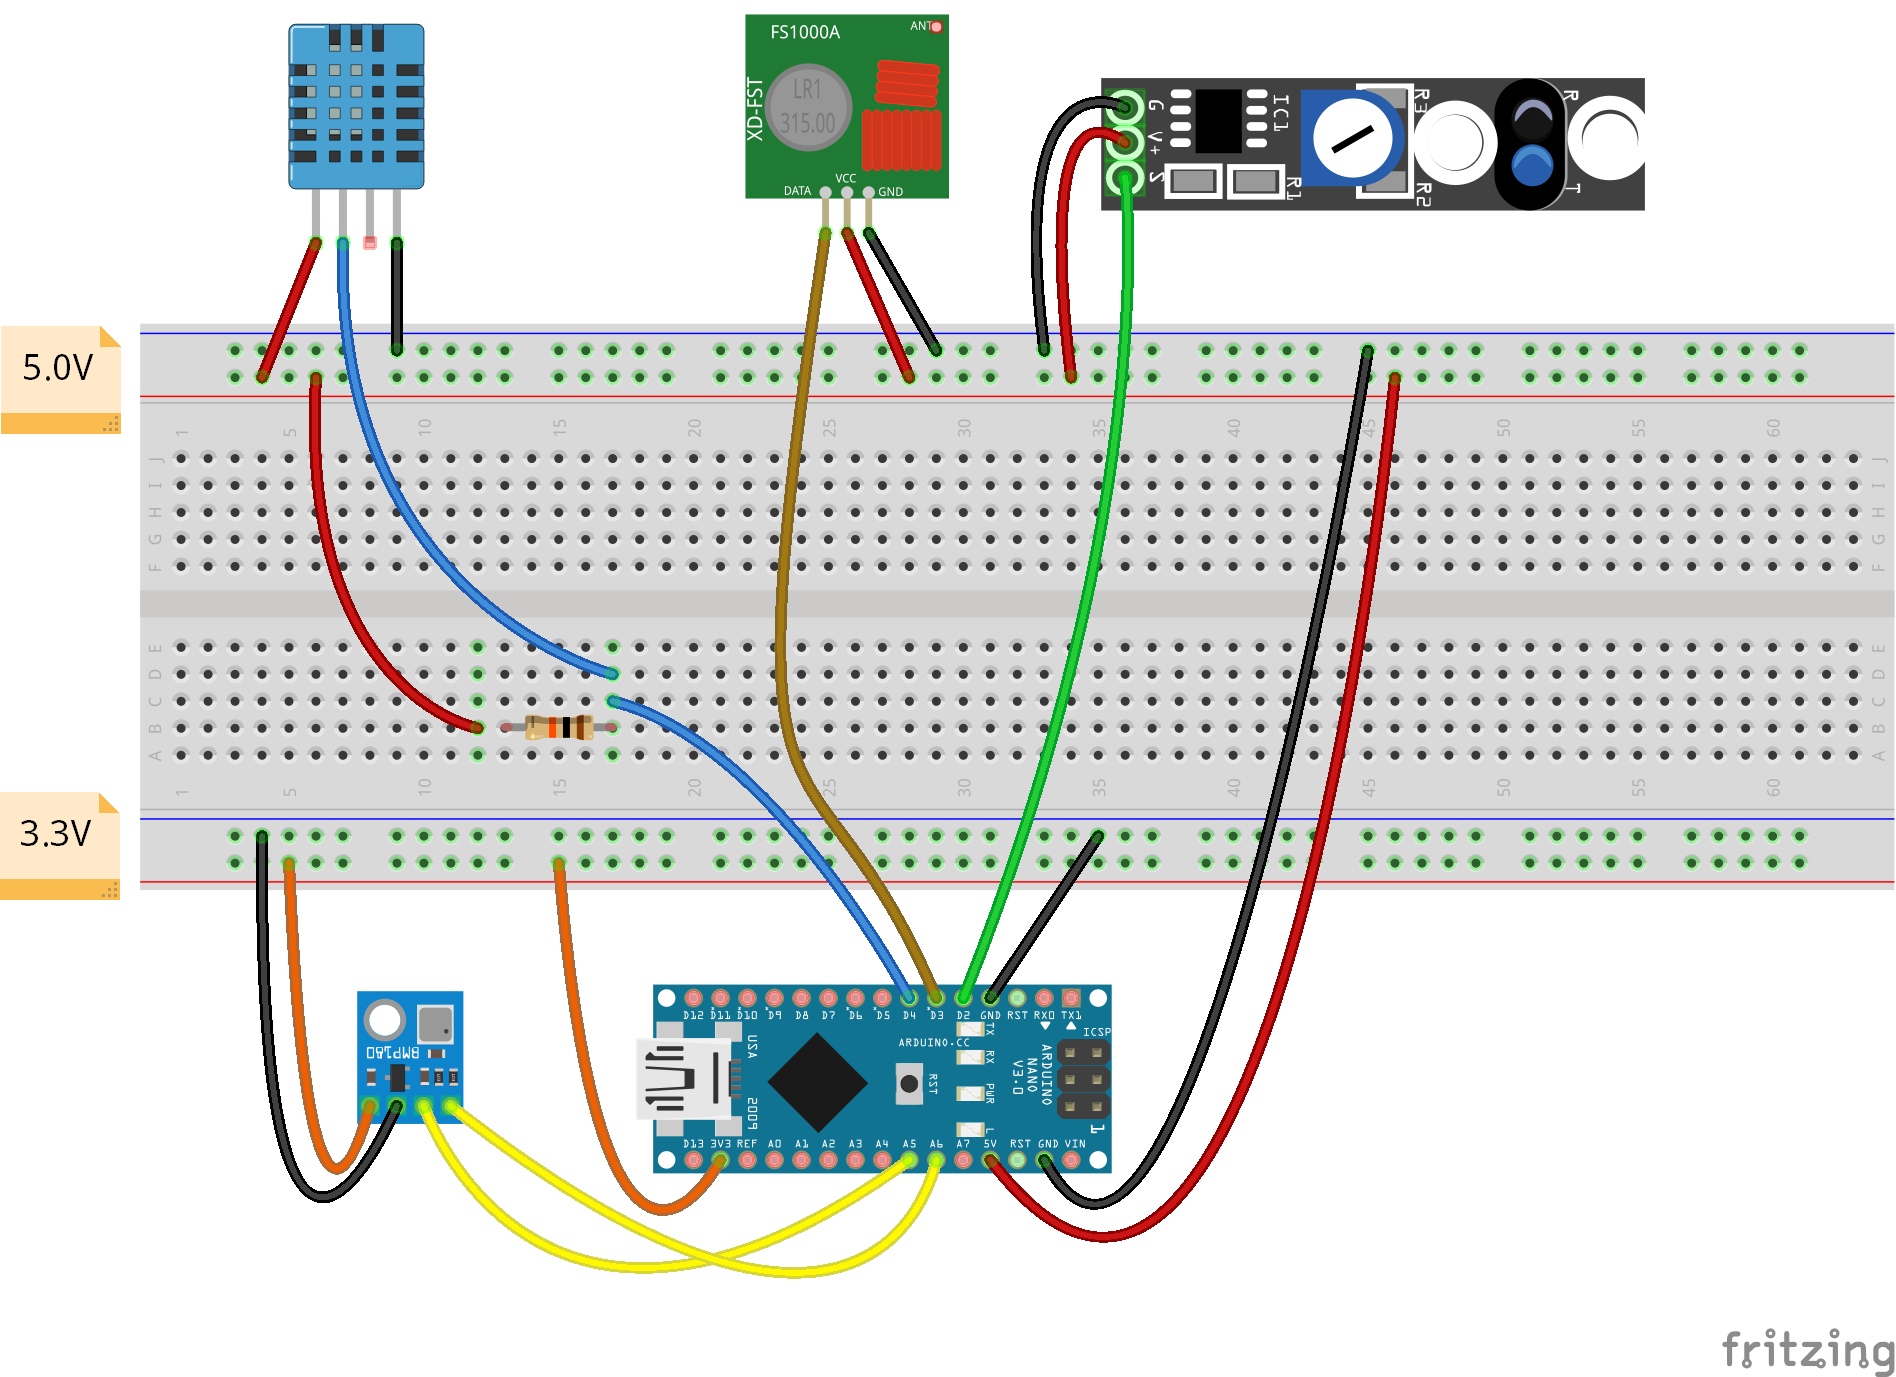
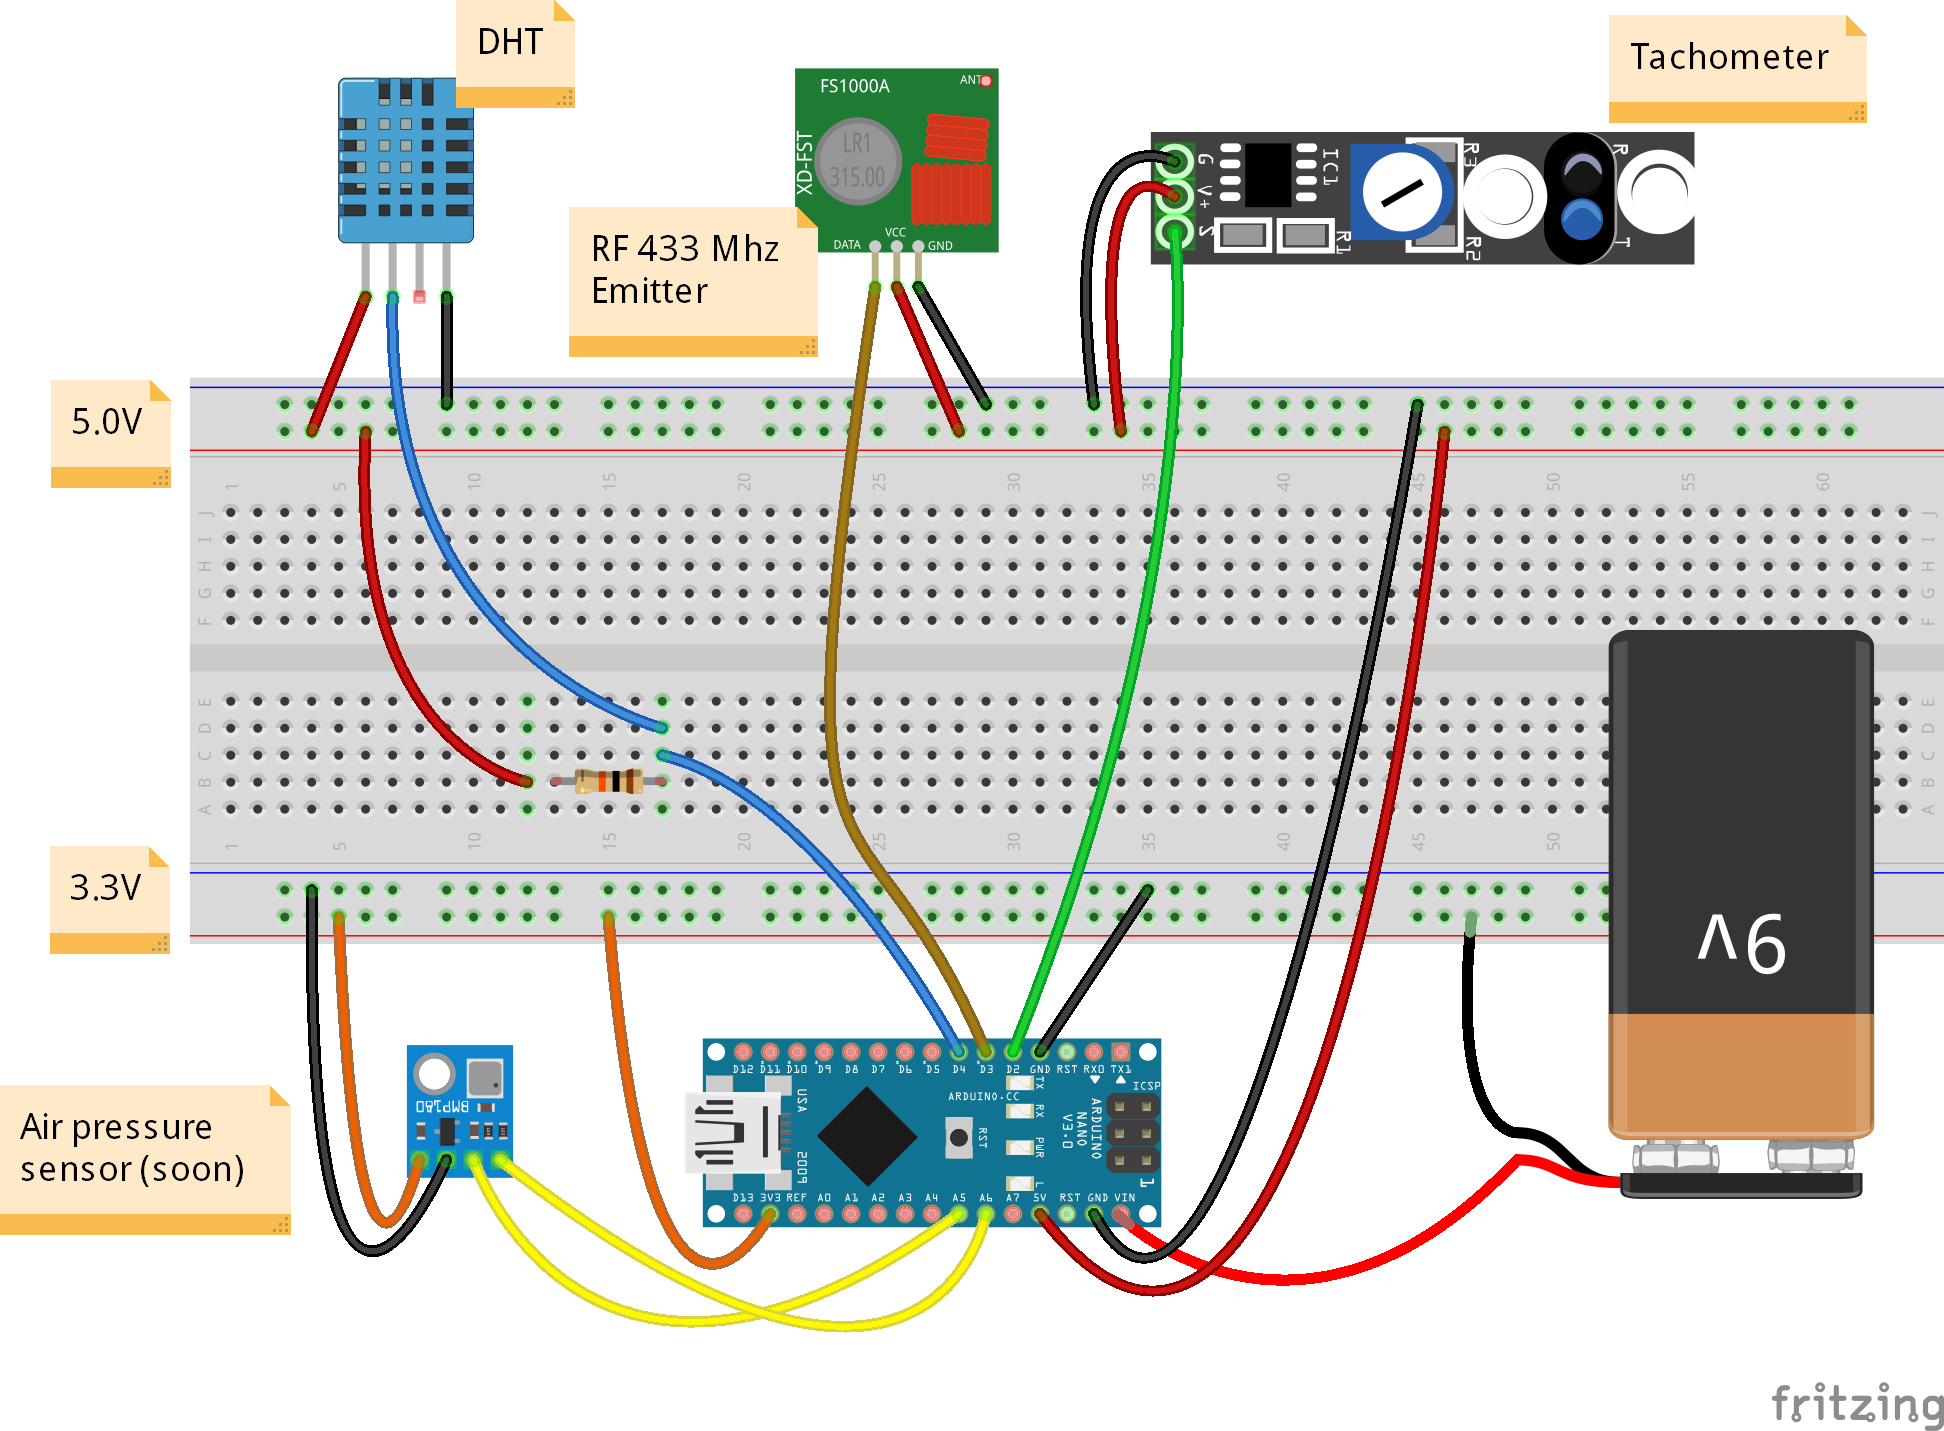
Add casing view

diff --git a/README.md b/README.md
@@ -4,6 +4,14 @@
 
 [![Electronic schema](https://raw.githubusercontent.com/rbello/NanoWindVane/master/doc/Electronic_bb.png)](https://raw.githubusercontent.com/rbello/NanoWindVane/master/doc/Electronic_bb.png)
 
+### Casing
+
+[![Inside view](https://raw.githubusercontent.com/rbello/NanoWindVane/master/doc/DSCF3656.JPG)](https://raw.githubusercontent.com/rbello/NanoWindVane/master/doc/DSCF3656.JPG)
+
+## Developments
+
+Self powered (dynamo + battery)
+
 ### Gears
 
 [![Gears](https://raw.githubusercontent.com/rbello/NanoWindVane/master/doc/Gears_bb.png)](http://geargenerator.com/#200,200,100,6,1,1,15702.900000006599,3,1,16,2.6666666666666665,6,12,-110,0,0,10,1.6666666666666667,6,12,0,1,1,60,0.8571428571428571,70,20,-60,0,0,2,742)
